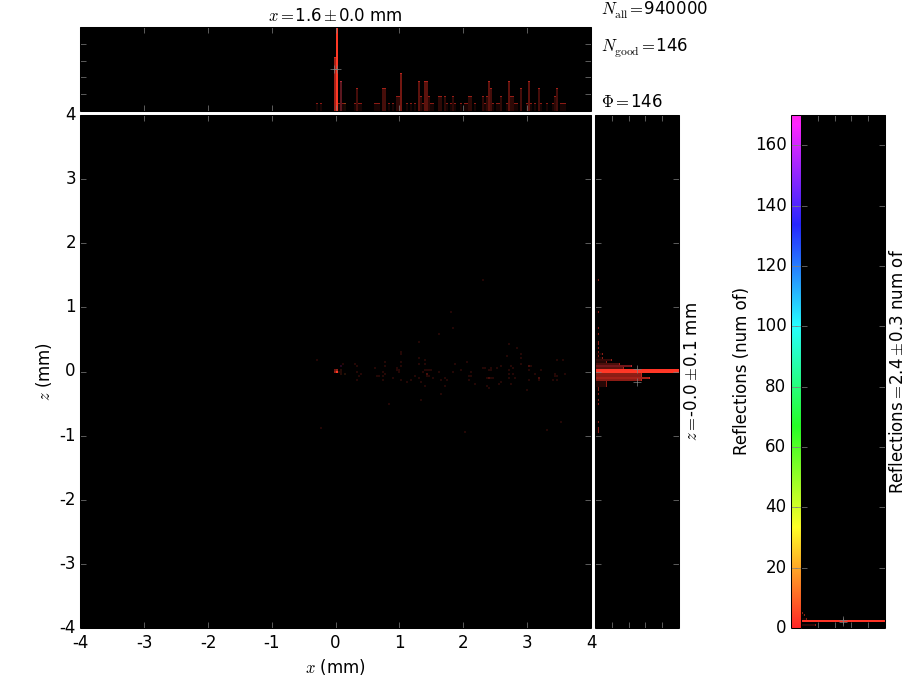
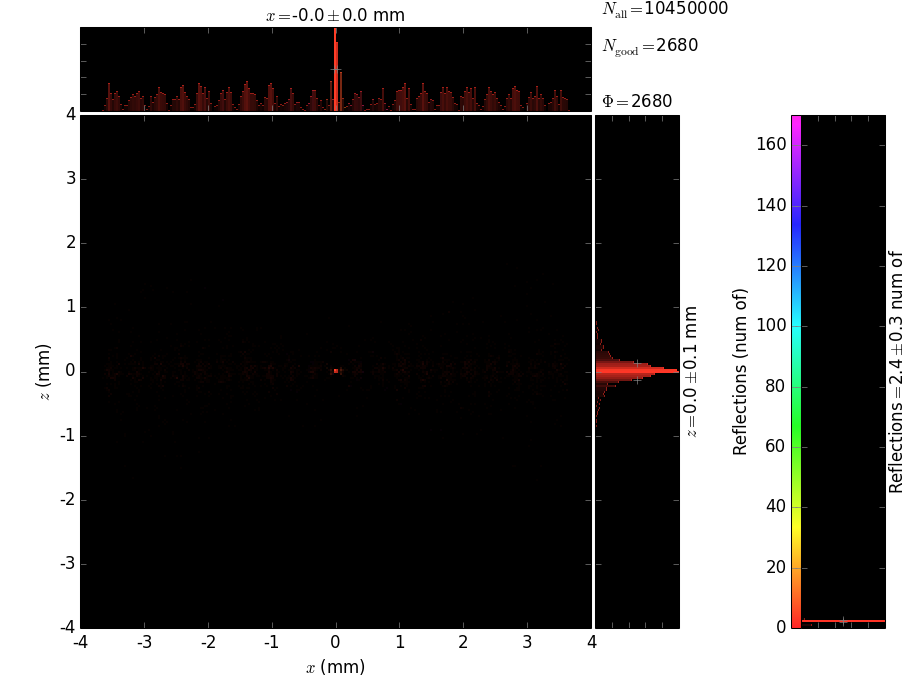
Desired shape, wrong raycing (?)

diff --git a/PlotMono.py b/PlotMono.py
@@ -15,11 +15,12 @@ def plot2D(beamLine):
     ax1.set_xlabel('y [mm]', fontsize=14)
     ax1.set_xlabel('x [mm]', fontsize=14)
     seq = [2, 5, 12, 5]
-    s = np.linspace(beamLine.y1, beamLine.yf,200)
+    s = np.linspace(beamLine.y1, beamLine.y2,200)
     for capillary in beamLine.capillaries:
         x = capillary.local_x0(s)
         r = capillary.local_r0(s)
         ax1.plot([0, beamLine.y1],[0 , capillary.h_in],'k-', lw=0.5)
+        ax1.plot([beamLine.y2, beamLine.yf],[x[-1] , 0],'k-', lw=0.5)
         ax1.plot(s, x,'r-', lw=1)
     ax1.set_xlim(0,beamLine.yf)
     ax1.set_ylim(-beamLine.hMax,beamLine.hMax)

diff --git a/realisticPolycapillary.py b/realisticPolycapillary.py
@@ -115,7 +115,7 @@ def build_beamline(nrays=1e4):
     (0,y1,0))
 
     beamLine.capillaries = []
-    for h_it in range(0,11):
+    for h_it in range(-10,11):
         h_in = h_it * hMax/40.
         roll = 0.
         p = getPolyCoeffs(y0,y1,ym,y2,yf,h_in,Din,Dout,hMax)
@@ -167,7 +167,7 @@ rr.run_process = run_process
 
 def main():
     beamLine = build_beamline()
-#    plot2D(beamLine)
+    plot2D(beamLine)
     plots = []
     """
     Lens Exit Screen
